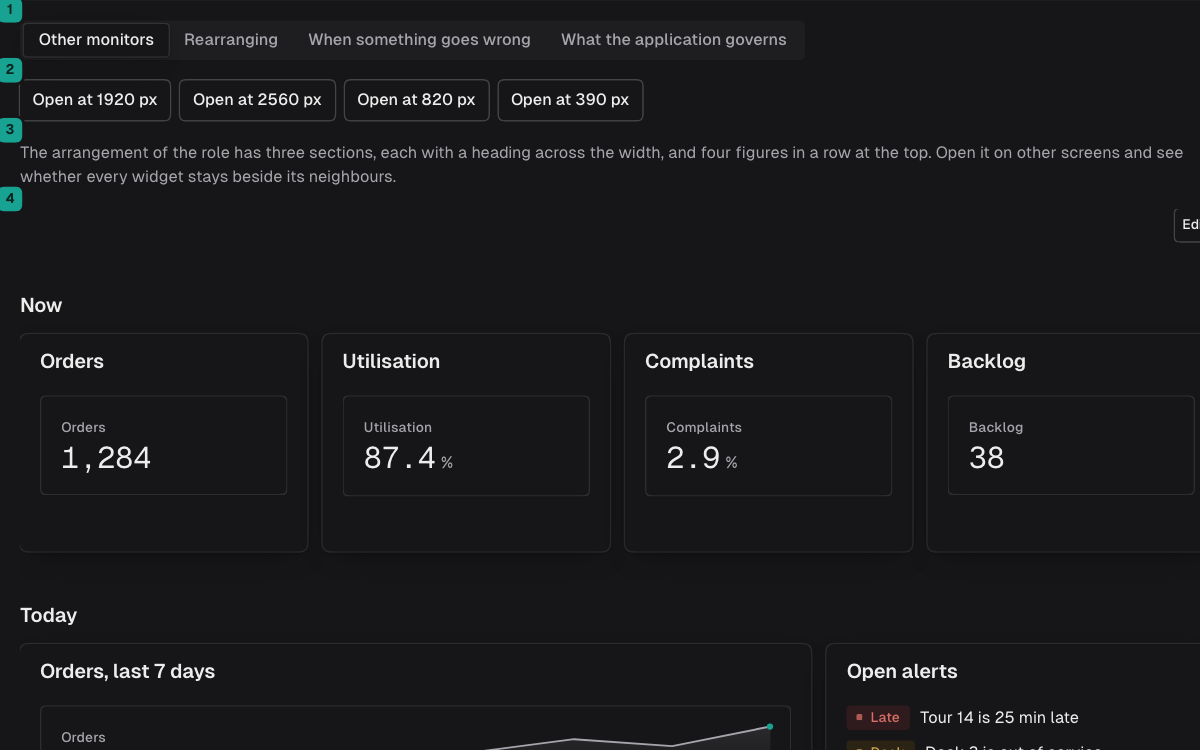
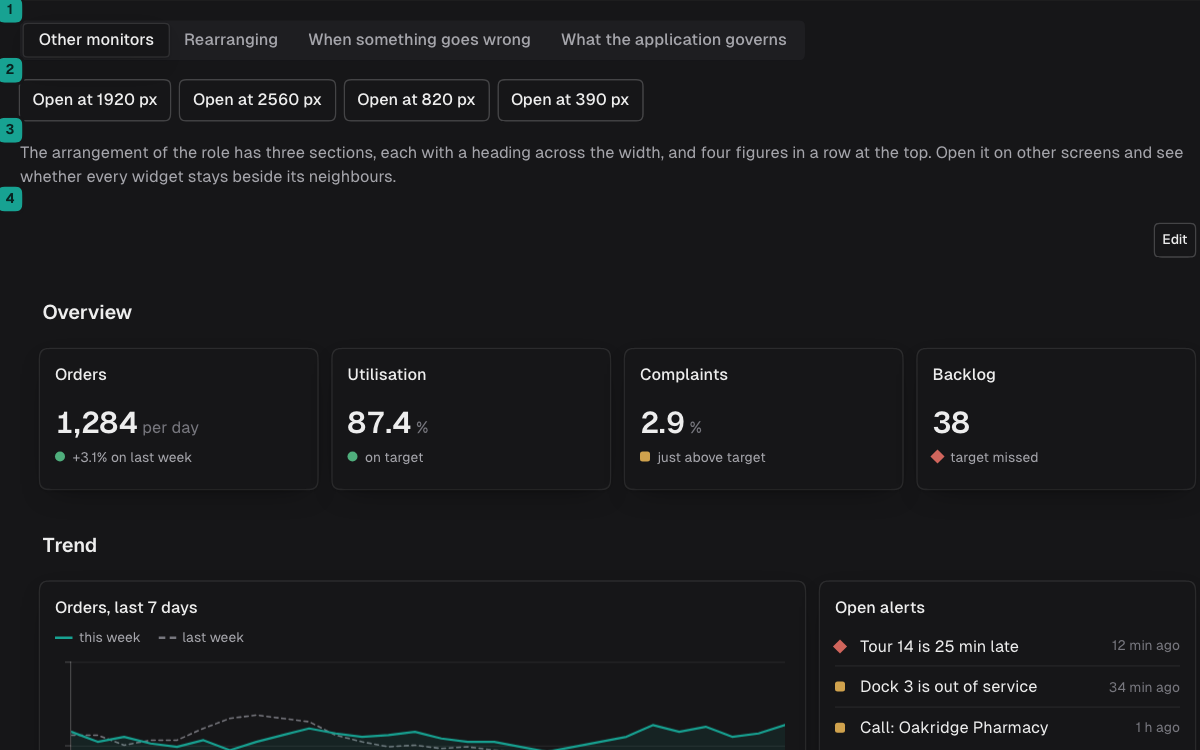
Release: core 0.40.0, charts 0.40.0, table 0.40.0, schedule 0.40.0, calculation 0.40.0, dashboard 0.40.0

diff --git a/README.md b/README.md
@@ -12,15 +12,15 @@ hard outlines or effects.
 
 | Package | Version | What it is |
 |---|---|---|
-| [`@umriss-ui/core`](packages/core/README.md) | 0.39.0 | The component library — forms, overlays, structure, the tree, the command palette. The package you install first |
-| [`@umriss-ui/charts`](packages/charts/README.md) | 0.39.0 | Canvas charts — few kinds, drawn well. Depends on nothing but React |
-| [`@umriss-ui/table`](packages/table/README.md) | 0.39.0 | The table, declared the way it reads: columns as JSX, typed against their rows — filtering by column and by row, grouping, tree rows and aggregates in a pure model. Takes `@umriss-ui/core` as a peer |
-| [`@umriss-ui/schedule`](packages/schedule/README.md) | 0.39.0 | The schedule: subtasks on lanes over time, with dependencies, blocked time, findings and controlled editing. Takes `@umriss-ui/core` and `@umriss-ui/charts` as peers |
-| [`@umriss-ui/calculation`](packages/calculation/README.md) | 0.39.0 | A calculation a reader can follow and redo: a derivation written as it is shown, evaluated by the library, in one metric or several side by side. Takes `@umriss-ui/core` as a peer |
-| [`@umriss-ui/dashboard`](packages/dashboard/README.md) | unreleased | Widgets a developer declares and a reader arranges: a sequence at named sizes, packed on twelve columns, edited as a draft with undo, the arrangement the application's to keep. Takes `@umriss-ui/core` as a peer |
+| [`@umriss-ui/core`](packages/core/README.md) | 0.40.0 | The component library — forms, overlays, structure, the tree, the command palette. The package you install first |
+| [`@umriss-ui/charts`](packages/charts/README.md) | 0.40.0 | Canvas charts — few kinds, drawn well. Depends on nothing but React |
+| [`@umriss-ui/table`](packages/table/README.md) | 0.40.0 | The table, declared the way it reads: columns as JSX, typed against their rows — filtering by column and by row, grouping, tree rows and aggregates in a pure model. Takes `@umriss-ui/core` as a peer |
+| [`@umriss-ui/schedule`](packages/schedule/README.md) | 0.40.0 | The schedule: subtasks on lanes over time, with dependencies, blocked time, findings and controlled editing. Takes `@umriss-ui/core` and `@umriss-ui/charts` as peers |
+| [`@umriss-ui/calculation`](packages/calculation/README.md) | 0.40.0 | A calculation a reader can follow and redo: a derivation written as it is shown, evaluated by the library, in one metric or several side by side. Takes `@umriss-ui/core` as a peer |
+| [`@umriss-ui/dashboard`](packages/dashboard/README.md) | 0.40.0 | Widgets a developer declares and a reader arranges: a sequence at named sizes, packed on twelve columns, edited as a draft with undo, the arrangement the application's to keep. Takes `@umriss-ui/core` as a peer |
 | `@umriss-ui/demo` | — | The private shell all six demos are built from. Never published |
 
-All five published packages are released under the npm tag `latest`, so a plain
+All six published packages are released under the npm tag `latest`, so a plain
 `pnpm add` installs them.
 
 `core` names the package you install first, not a layer the others sit on:
@@ -120,8 +120,8 @@ npx skills add romanhaendler/umriss-ui --skill umriss-ui
 
 ## Maturity
 
-Every package is `0.x` and the five are released together under one number (from `0.34.0`), and while the first digit is `0` no version number
-promises compatibility. All five are released under `latest`. The release
+Every package is `0.x` and the six are released together under one number (from `0.34.0`, the dashboard from `0.40.0`), and while the first digit is `0` no version number
+promises compatibility. All six are released under `latest`. The release
 candidates of `charts`, `table` and `schedule` stand in their changelogs, and so
 do the numbers `core` counted inside this repository before its first release,
 as *internal* ones. What changes for a caller stands in that package's own

diff --git a/packages/dashboard/CHANGELOG.md b/packages/dashboard/CHANGELOG.md
@@ -3,9 +3,21 @@
 This document describes what changes for **callers** of the package: exports,
 props, behaviour.
 
----
+**The numbers.** The middle digit rises when something is added; the last one
+when something is repaired. As long as the first digit is `0`, no number
+promises compatibility — which is why a rule stronger than the figure applies as
+well: **whatever changes existing behaviour stands under a heading "Changed" of
+its own**, no matter which digit rose. Whoever reads only one section before an
+upgrade reads that one.
 
-## Unreleased
+The dashboard joins the other five packages' one number at its first version: they are released together, and a package without a change of its own still gets a heading for it.
 
-The first version: `useDashboard` and a `Dashboard` that shows the widgets of a
-view in their stored order, each at its size, packed on twelve columns.
+## 0.40.0 – The first version (Oct. 2026)
+
+### Added
+
+- **`useDashboard`** takes the arrangement the application gives a reader (`defaultView`) and the one the reader kept (`initialView`, read once), and hands back `Dashboard`, `WidgetType`, the view, `setView` and the editing actions. A view is a sequence of widgets, each with its type, its size and its options.
+- **`WidgetType`** declares a widget type as JSX: its name, a sentence, the sizes it offers with the columns and rows each takes, the size to start from, its default options, an optional form for them and its content as a function of the size and the options. The options type is inferred from the default options. **`HeadingType`** is a built-in type that divides the dashboard with a title across the full width.
+- **Twelve columns at every width.** The widgets are packed in the stored order, each at the first place at or after the one before it; the room left behind stays free. Under a maximum width the dashboard stops growing, and below the width at which a column would be too narrow to read it is a list in the same order. Decided on the dashboard's own width, so the server's markup is right.
+- **Editing as a draft.** "Edit" opens the mode; one menu on every widget moves, sizes, sets the options and removes it; the head takes the arrow keys, Home and End, and is the grip for a pointer drag; "Add widget" opens the catalogue. Every change is a step of the draft with Undo, Redo and Reset to the default; "Done" reports the whole arrangement once through `onViewChange`, "Cancel" puts it back, and `onDraftChange` says while a draft is open. `allowEdit` forbids it. Every change is announced, in English and German.
+- **A kept arrangement is read leniently:** a widget of a type that is gone falls out, a size its type no longer offers falls back to its starting size. A widget whose content throws keeps its frame, says so in one sentence and can still be moved and removed.

diff --git a/docs/releasing.md b/docs/releasing.md
@@ -1,7 +1,7 @@
 # Releasing
 
 How a version of `@umriss-ui/core`, `@umriss-ui/charts`, `@umriss-ui/table`,
-`@umriss-ui/schedule` or `@umriss-ui/calculation`
+`@umriss-ui/schedule`, `@umriss-ui/calculation` or `@umriss-ui/dashboard`
 reaches npm, and how the demos reach GitHub Pages. What a version *means* for a
 caller stands in the package's own `CHANGELOG.md`; this page is only the
 mechanics.
@@ -45,7 +45,7 @@ and `check:dist`. A version with a hyphen
 version publishes nothing, and the same version is never published twice.
 
 After each package the workflow sets its tag, `<dir>-v<version>` — one per
-package, though from `0.34.0` all five carry the same number. The tag only
+package, though from `0.34.0` all carry the same number. The tag only
 marks the commit; it triggers nothing, and none is set by hand.
 
 No token is involved: each package on npm trusts that workflow through Trusted
@@ -58,9 +58,9 @@ that bypass it. The workflow packs with pnpm — only pnpm rewrites the
 `workspace:^`) — and uploads the tarball with npm, because pnpm 9.14.4 cannot
 do Trusted Publishing.
 
-1. **One number for all five packages.** From `0.34.0` on, `core`, `charts`,
-   `table`, `schedule` and `calculation` are released together under one
-   number, even where a package has no change of its own. The peer ranges
+1. **One number for all packages.** From `0.34.0` on, `core`, `charts`,
+   `table`, `schedule` and `calculation` - and from `0.40.0` `dashboard` - are
+   released together under one number, even where a package has no change of its own. The peer ranges
    between them are that same number - `workspace:^` in the manifests, which
    pnpm writes out as `^<version>` when it packs - so there is no table of
    which version needs which. At the release, in one commit: the `version` of

diff --git a/packages/core/CHANGELOG.md b/packages/core/CHANGELOG.md
@@ -10,7 +10,7 @@ well: **whatever changes existing behaviour stands under a heading "Changed" of
 its own**, no matter which digit rose. Whoever reads only one section before an
 upgrade reads that one.
 
-From 0.34.0 all five packages share one number: they are released together, and a package without a change of its own still gets a heading for it.
+From 0.34.0 the packages share one number - five, and six from 0.40.0, when the dashboard joined: they are released together, and a package without a change of its own still gets a heading for it.
 
 **Names read forwards.** Where an entry below describes a name that has since
 been renamed, it is named here as it is called today; string literals, and
@@ -25,6 +25,12 @@ Of those, `internal 0.1.0` to `internal 0.3.0` were reconstructed afterwards —
 package stood at `0.1.0` the whole time, because it had exactly one caller and that
 caller lay in the same repository — and are grouped by unit of delivery, not by
 commit.
+
+## 0.40.0 – Words for the dashboard (Oct. 2026)
+
+### Added
+
+- **Wording for `@umriss-ui/dashboard`:** the `dashboard…` entries - the editing bar, a widget's menu and head, the size names, the catalogue, the built-in heading, a failed widget and every announcement - in English and German. An application that passes a complete `Wording` of its own adds them as well.
 
 ## 0.39.0 – Toasts that stay, and one provider (Oct. 2026)
 

diff --git a/packages/charts/CHANGELOG.md b/packages/charts/CHANGELOG.md
@@ -10,7 +10,7 @@ well: **whatever changes existing behaviour stands under a heading "Changed" of
 its own**, no matter which digit rose. Whoever reads only one section before an
 upgrade reads that one.
 
-From 0.34.0 all five packages share one number: they are released together, and a package without a change of its own still gets a heading for it.
+From 0.34.0 the packages share one number - five, and six from 0.40.0, when the dashboard joined: they are released together, and a package without a change of its own still gets a heading for it.
 
 **Names read forwards.** Where an entry describes a name that has since been
 renamed, it is named here as it is called today; names that were removed stand
@@ -28,6 +28,11 @@ promised nothing a `0.x` does not already fail to promise; it said the
 interface was still expected to move before `0.3.0`.
 
 ---
+
+## 0.40.0 – No change of its own (Oct. 2026)
+
+Released with the other five packages under their one number. No change of its
+own.
 
 ## 0.39.0 – No change of its own (Oct. 2026)
 

diff --git a/packages/table/CHANGELOG.md b/packages/table/CHANGELOG.md
@@ -8,7 +8,7 @@ middle digit rises when something is added, the last one when something is
 repaired, and **whatever changes existing behaviour stands under a heading
 "Changed" of its own**, no matter which digit rose.
 
-From 0.34.0 all five packages share one number: they are released together, and a package without a change of its own still gets a heading for it.
+From 0.34.0 the packages share one number - five, and six from 0.40.0, when the dashboard joined: they are released together, and a package without a change of its own still gets a heading for it.
 
 **Names read forwards.** Where an entry describes a name that has since been
 renamed, it is named here as it is called today; names that were removed stand
@@ -22,6 +22,11 @@ is one of the internal numbers from before core's first publication as `0.1.0`
 (see core's changelog).
 
 ---
+
+## 0.40.0 – No change of its own (Oct. 2026)
+
+Released with the other five packages under their one number. No change of its
+own.
 
 ## 0.39.0 – No change of its own (Oct. 2026)
 

diff --git a/packages/schedule/CHANGELOG.md b/packages/schedule/CHANGELOG.md
@@ -8,13 +8,18 @@ when something is repaired. As long as the first digit is `0`, no number
 promises compatibility — which is why whatever changes existing behaviour stands
 under a heading "Changed" of its own, no matter which digit rose.
 
-From 0.34.0 all five packages share one number: they are released together, and a package without a change of its own still gets a heading for it.
+From 0.34.0 the packages share one number - five, and six from 0.40.0, when the dashboard joined: they are released together, and a package without a change of its own still gets a heading for it.
 
 **Release candidates.** The package started as a release candidate under the
 tag `next`. With `0.1.0` it is released: the tag is gone, and the interface
 moves from here under the rule above.
 
 ---
+
+## 0.40.0 – No change of its own (Oct. 2026)
+
+Released with the other five packages under their one number. No change of its
+own.
 
 ## 0.39.0 – No change of its own (Oct. 2026)
 

diff --git a/packages/calculation/CHANGELOG.md b/packages/calculation/CHANGELOG.md
@@ -8,9 +8,14 @@ when something is repaired. As long as the first digit is `0`, no number
 promises compatibility — which is why whatever changes existing behaviour stands
 under a heading "Changed" of its own, no matter which digit rose.
 
-From 0.34.0 all five packages share one number: they are released together, and a package without a change of its own still gets a heading for it.
+From 0.34.0 the packages share one number - five, and six from 0.40.0, when the dashboard joined: they are released together, and a package without a change of its own still gets a heading for it.
 
 ---
+
+## 0.40.0 – No change of its own (Oct. 2026)
+
+Released with the other five packages under their one number. No change of its
+own.
 
 ## 0.39.0 – No change of its own (Oct. 2026)
 
